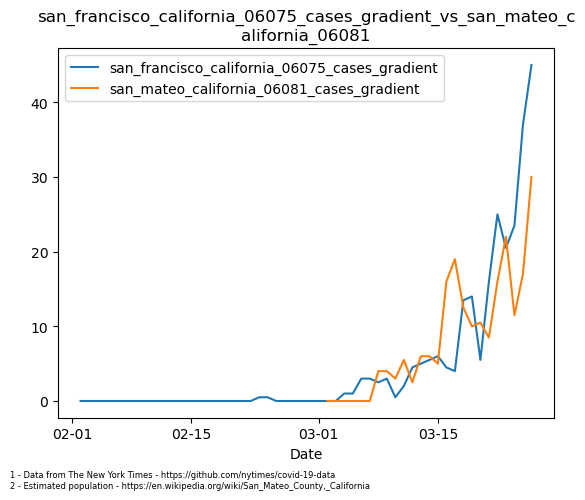
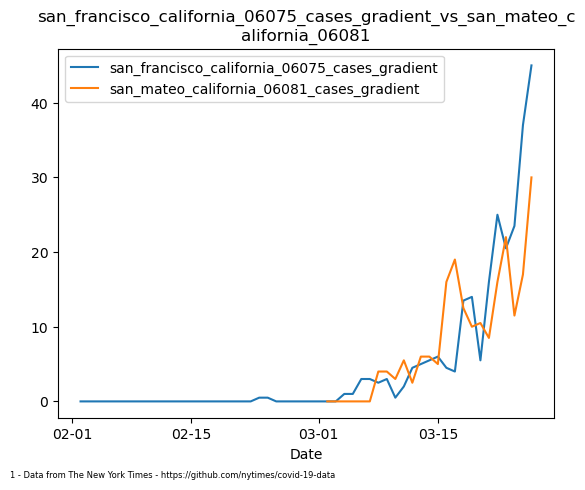
Fix citations.

diff --git a/plotter.py b/plotter.py
@@ -165,7 +165,8 @@ if plot_type == PlotType.CASES_1000 or plot_type == PlotType.DEATHS_1000:
 title = get_county_state(fips, rows) + "_" + plot_type.name.lower()
 if vs_fips >= -1:
 	title = title + "_vs_" + get_county_state(vs_fips, rows)
-	citations = citations + "\n" + str(next_citation) + " - Estimated population - " + build_wikipedia_url(vs_fips, rows)
+	if plot_type == PlotType.CASES_1000 or plot_type == PlotType.DEATHS_1000:
+		citations = citations + "\n" + str(next_citation) + " - Estimated population - " + build_wikipedia_url(vs_fips, rows)
 
 plt.title("\n".join(wrap(title, 60)))
 plt.xlabel("Date")
